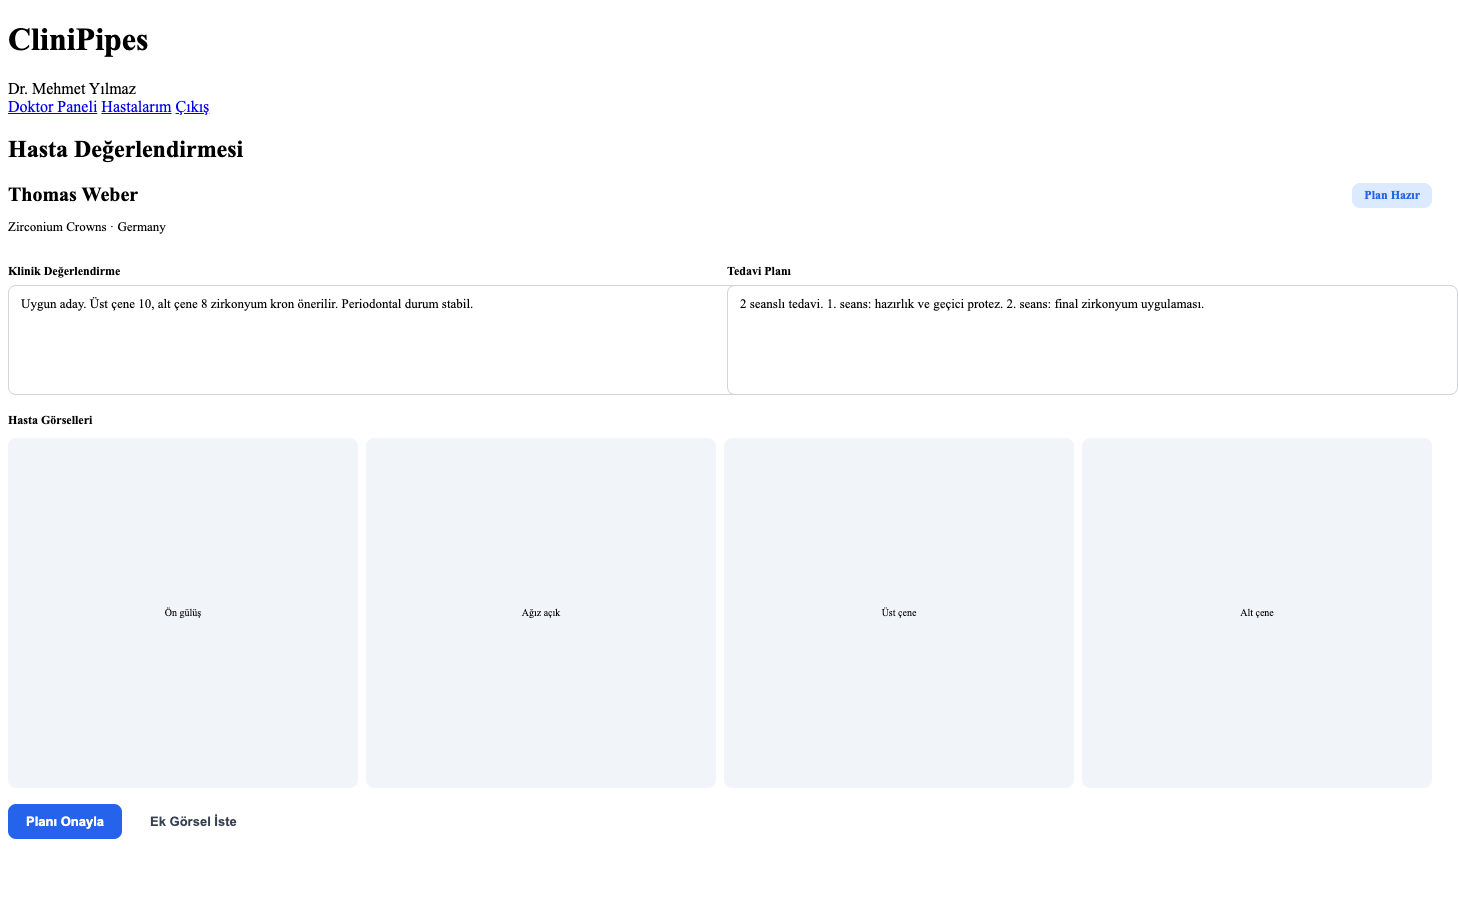
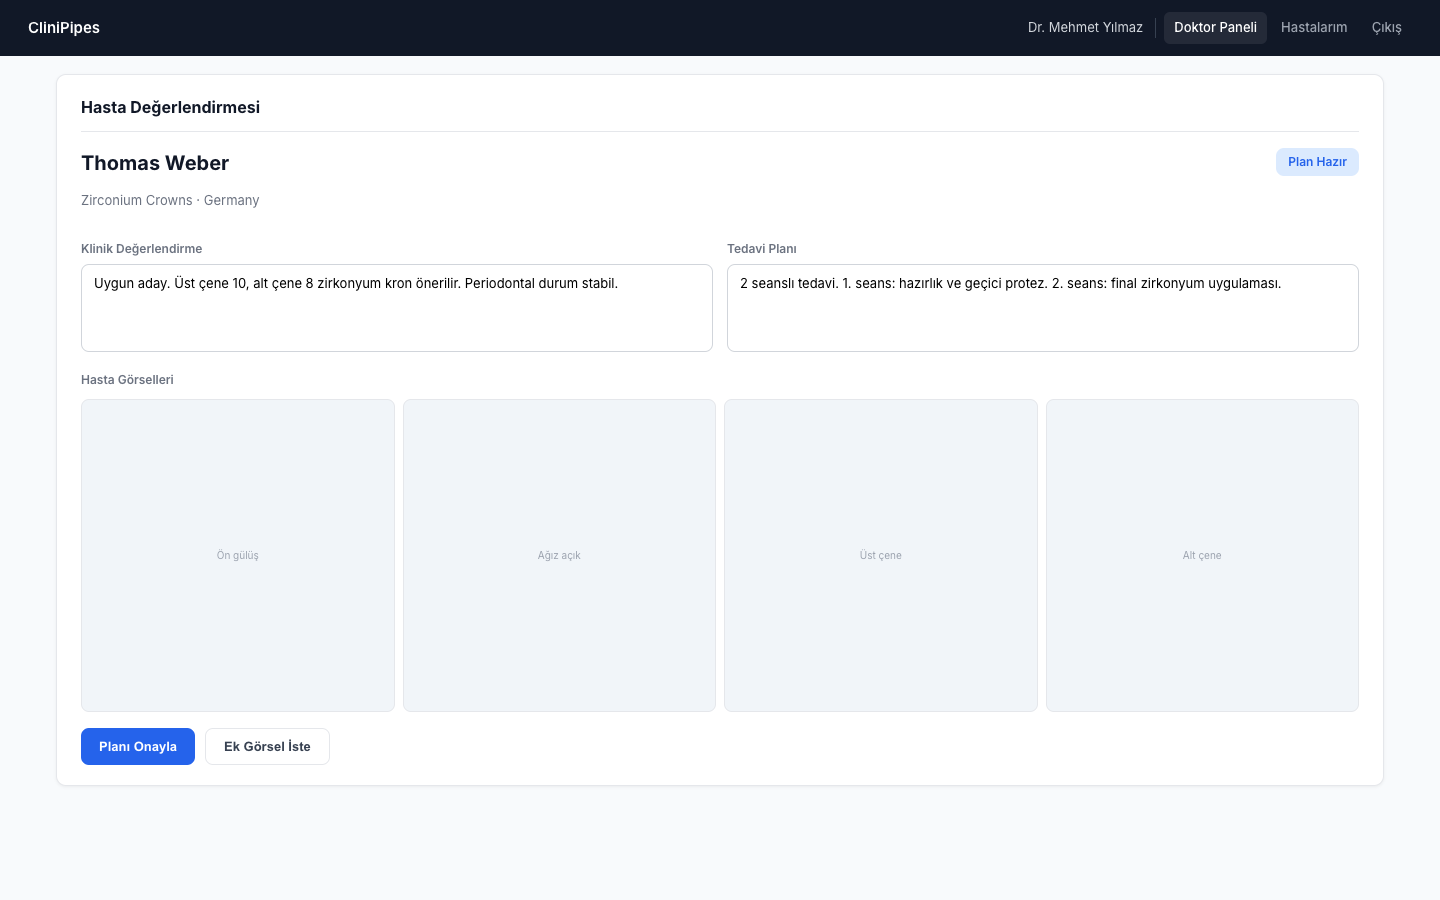
Fix demo CSS serving and refresh styled Dentavera screenshots.
Allow /demo/*.css through the static handler so panel mocks render correctly in captures; bump demo cache to v14.

diff --git a/index.html b/index.html
@@ -470,19 +470,19 @@ footer p{font-size:.82rem;color:rgba(255,255,255,.35);margin:0}
     <div class="demo-frame reveal">
       <div class="demo-scroll">
       <div class="demo-panel on" data-demo="dashboard">
-        <img src="/demo/dashboard.png?v=13" alt="CliniPipes Yönetim Paneli" loading="lazy">
+        <img src="/demo/dashboard.png?v=14" alt="CliniPipes Yönetim Paneli" loading="lazy">
       </div>
       <div class="demo-panel" data-demo="sales">
-        <img src="/demo/sales.png?v=13" alt="Satış Pipeline" loading="lazy">
+        <img src="/demo/sales.png?v=14" alt="Satış Pipeline" loading="lazy">
       </div>
       <div class="demo-panel" data-demo="form">
-        <img src="/demo/form.png?v=13" alt="Hasta Formu" loading="lazy">
+        <img src="/demo/form.png?v=14" alt="Hasta Formu" loading="lazy">
       </div>
       <div class="demo-panel" data-demo="doctor">
-        <img src="/demo/doctor.png?v=13" alt="Doktor Paneli" loading="lazy">
+        <img src="/demo/doctor.png?v=14" alt="Doktor Paneli" loading="lazy">
       </div>
       <div class="demo-panel" data-demo="pdf">
-        <img src="/demo/pdf.png?v=13" alt="PDF Teklif" loading="lazy">
+        <img src="/demo/pdf.png?v=14" alt="PDF Teklif" loading="lazy">
       </div>
       </div>
       <div class="demo-cap demo-cap-active" data-tr="Kaydırarak tüm ekranı görüntüleyin." data-en="Scroll to view the full screen.">Kaydırarak tüm ekranı görüntüleyin.</div>

diff --git a/server.js b/server.js
@@ -635,7 +635,7 @@ http.createServer(function(req,res){
     if(!rel||rel.indexOf('..')>=0){res.writeHead(403);res.end('');return;}
     const fp=path.join(__dirname,'demo',rel);
     const ext=path.extname(fp).toLowerCase();
-    const ct={'.html':'text/html; charset=utf-8','.js':'application/javascript; charset=utf-8','.png':'image/png','.jpg':'image/jpeg','.jpeg':'image/jpeg','.webp':'image/webp'}[ext];
+    const ct={'.html':'text/html; charset=utf-8','.js':'application/javascript; charset=utf-8','.css':'text/css; charset=utf-8','.png':'image/png','.jpg':'image/jpeg','.jpeg':'image/jpeg','.webp':'image/webp'}[ext];
     if(!ct){res.writeHead(403);res.end('');return;}
     fs.readFile(fp,function(err,data){
       if(err){res.writeHead(404);res.end('');return;}
